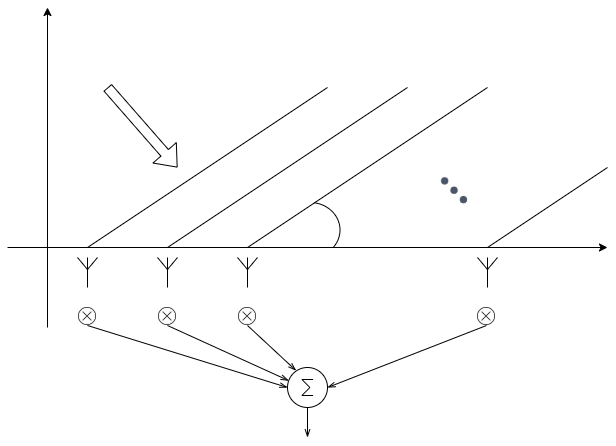
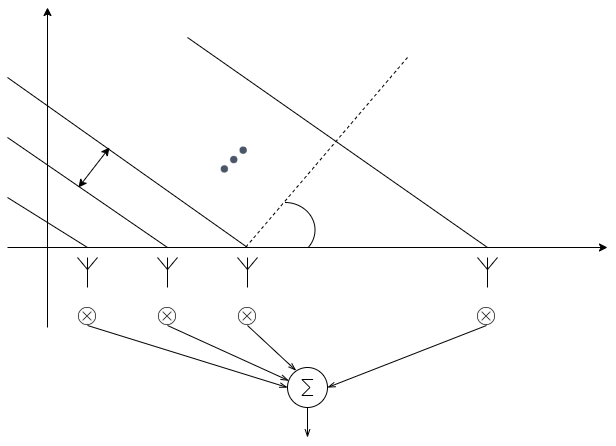
After Israel's comments

diff --git a/Modules/abstractHebrew.tex b/Modules/abstractHebrew.tex
@@ -1,74 +1,51 @@
-שיערוך מאפיינים מתוך מדידות הינו מושא לעניין רב עוד מראשית ימי המדע, כשחוקי הפיזיקה נלמדו בעזרת תצפיות ומדידות.
+שיערוך מאפייני אותות הינו מושא לעניין רב עוד מראשית ימי המדע, כשחוקי הפיזיקה נלמדו בעזרת תצפיות ומדידות.
 עם התקדמות המדע, רמת הדיוק הנדרשת בשיערוך עלתה ובכדי לעקוף את הגבולות התיאורטיים (פורייה למשל), עלה הרעיון לעיבוד מקבילי של מידע ממספר רגשים.
 אחד התחומים בהם עלה משמעותית הצורך בדיוק השיערוך, היה העיבוד המרחבי - קרי שיערוך פרמטרים מרחביים מתוך מדידות. 
 עדויות לכך ניתן למצוא עוד בתקופת מלחמת העולם השניה בדמות רדאר ה
 \textenglish{Mammut}
 שנבנה על ידי הגרמנים לזיהוי מוקדם של מטרות טסות בגבהים עד 8 ק"מ ומרחקים של עד 300 ק"מ.
 \par
-מאז ועד ימינו, עיבוד מערכי רגשים
+מאז ועד ימינו, עיבוד מערכי חיישנים
 \textenglish{(sensors arrays)}
-התפתח לכדי תחום מחקר הנותן מענה למגוון רחב של בעיות, ביניהן איכון (מערכות רדאר, סונאר ונגזרותיהן) מטרות על סמך אותות שנפלטים או מוחזרים מהן - הנחשבת לותיקה ביותר בתחום.
+התפתח לכדי תחום מחקר הנותן מענה למגוון רחב של בעיות, ביניהן איכון (מערכות רדאר, סונאר ונגזרותיהן) מטרות על סמך אותות שנפלטים או מוחזרים מהן.
 עם השנים והתקדמות המדע, נעשה שימוש במערכים לפתרון בעיות נוספות.
 \par
-במערכות תקשורת, הצורך בסינון מרחבי הוא מן המעלה הראשונה, שכן במציאות מרובת המשדרים והמקלטים, במידה ולא היה שימוש במערכים, הפרעות הדדיות היו מונעות את פענוח האות הנקלט. במקביל, לא רק סינון אלא גם הכוונת אלומת השידור הפכה לאפשרית בזכות השימוש במערכי מופע
+במערכות תקשורת לדוגמא, הצורך בסינון מרחבי הוא מן המעלה הראשונה לאור המציאות מרובת המשדרים והמקלטים. במקביל, לא רק סינון אלא גם הכוונת אלומת השידור התאפשרה בזכות השימוש במערכי מופע
 \textenglish{(phased array)}
 ובכך הושגו גם חסכון באנרגית שידור, מניעת הגעת המידע ליעדים בלתי רצויים, חסינות לרעשים ועוד.
 \par
-מוקד עניין נוסף, הינו האפליקציות הרפואיות שהתאפשרו בזכות השימוש במערכים. 
+מוקד עניין נוסף, הינו האפליקציות הרפואיות. 
 בדימות רפואית למשל, כדוגמת 
 \textenglish{CT, MRI, EEG}
-וכו', רופאים מייצרים באופן בלתי פולשני מודלים של פנים גוף האדם המשמשים לפענוח מצבים רפואיים ותכנון מדויק של הליכים - ובכך מונעים סיכון רב מהמטופלים.
+וכו', רופאים מייצרים מודלים של פנים גוף האדם באופן בלתי פולשני.
+מודלים אלו משמשים לפענוח מצבים רפואיים ותכנון מדויק של הליכים - ובכך מונעים סיכון רב מהמטופלים.
 \par
-בעשורים האחרונים, עם הגחת הטלפונים הניידים לעולם, עלה הצורך בסינון אותות דיבור מתוך בליל מקורות אקוסטיים, שכן הדובר כבר אינו נמצא בין כותלי ביתו בשקט יחסי.
+בעשורים האחרונים, עם הגחת הטלפונים הניידים לעולם, עלה הצורך בסינון אותות דיבור טבולים ברעש, שכן הדובר כבר אינו נמצא בין כותלי ביתו בשקט יחסי.
 לשם כך, המכשירים הניידים מצוידים במערכי מיקרופונים אשר מסננים את אות הדובר על פי כיוון הגעתו ומאפייניו הסטטיסטיים.
 \par
-דוגמא מעניינת נוספת בתחום האסטרונומיה, שם נוכחו המדענים כי תצפיות אופטיות מוגבלות ביכולתן ובכמות המידע שניתן להפיק מהן, היא השימוש במערכי אנטנות, הנפרשים על פני שטחים עצומים בכדי לממש טלסקופים רבי עוצמה ודיוק, העושים שימוש באותות אלקטרומגנטיים באורכי גל שלא בתחום הנראה.
+דוגמא מעניינת נוספת בתחום האסטרונומיה, הינה מערכי אנטנות רדיו הנפרשים על פני שטחים עצומים בכדי לממש טלסקופים רבי עוצמה ודיוק. 
 \par
 ככלל, בין תחומי מחקר אלו, מתקיימת תרומה הדדית רחבת היקף ורב המסקנות העולות מכל תחום בנפרד משמשות בסיס למחקר ופיתוח בתחומים אחרים ולהפך. 
-בנוסף, בבסיס כל מגוון תחומי המחקר, ישנו שימוש בתחום מחקר ותיק ועשיר עוד יותר - הוא השימוש במסננים בכדי להפיק את המידע הרצוי (אות או מאפיין) מהאות הנקלט.  
+בנוסף, בבסיס כל מגוון תחומי המחקר, ישנו שימוש במסננים בכדי להפיק את המידע הרצוי (אות או מאפיין) מהאות הנקלט.  
 \par
 בבסיס תורת הסינון, שתי אבני בניין מרכזיות - קרי שני סוגי מסננים.
 האחד, מסנן בעל תגובה להלם סופית 
 \textenglish{FIR}
-הינו מישקול וסכימת סט דגימות לכדי מוצא "מסונן".
-השני לעומת זאת, משתמש בהיזון חוזר, ובכך מייצר תגובה אינסופית להלם - ועל כך שמו
+שהינו מישקול וסכימת סט דגימות לכדי מוצא "מסונן".
+השני לעומת זאת, משלב היזון חוזר, ובכך מייצר תגובה אינסופית להלם 
 \textenglish{IIR}
-.
-לשם תכן מסננים מסופק מפרט התגובה בתדר, בו מפורטים התדרים שאמורים לעבור, אלו שאמורים לחוות דיכוי ומידת הדיכוי הרצויה.
-על פי מפרט זה, המתכנן בוחר את סוג המסנן ואת המשקלות שבו.
-בעוד המסנן בעל התגובה הסופית להלם מאפשר הימנעות מעיוותים באות (תכונת הפאזה הלינארית - קרי ללא דיספרסיה), המסנן בעל התגובה האינסופית מאפשר חיסכון משמעותי (לעיתים בסדרי גודל) במשאבים לשם עמידה במפרט דומה.
-איך לכך, בהתאם לאפליקציה ולמפרט, על המתכנן לבחור במסנן המתאים ביותר תוך הבאה בחשבון של כלל השיקולים - משאבים, עלות וכו'.
+וידוע כי הוא מאפשר חיסכון משמעותי (לעיתים בסדרי גודל) במשאבים.
 \par
-עד כה, למיטב ידיעתנו, בכל תחומי המחקר המערבים עיבוד מרובה רגשים אבן הבניין היחידה שבשימוש הינה המסנן בעל התגובה הסופית בתדר, שכן בין אם מעורב שידור במערכת (כמו במכם, תקשורת, דימות רפואית וכו') ובין אם לאו, אין היזון חוזר של האות הנקלט חזרה אל מושא המדידה.
-עובדה זו עוררה את תהייתנו ובעטייה חיפשנו את המקביל המרחבי למסנן בעל התגובה האינסופית - בכדי ליהנות מהיתרונות שבו.
-במהלך המחקר המקדים, נוכחנו לדעת כי שאלה זו התעוררה גם במוחם של חוקרים אחרים, אך לאחר בחינת פרסומיהם נוכחנו כי פתרונם אינו מממש בצורה מלאה את רעיון ההיזון החוזר אלא מנסה למצוא דרכים עקיפות - בכך חושף עצמו לשגיאות ועיוותים משמעותיים.
+עד כה, למיטב ידיעתנו, בכל תחומי המחקר המערבים עיבוד מערכי חיישנים אבן הבניין היחידה שבשימוש הינה המסנן בעל התגובה הסופית בתדר, שכן בין אם מעורב שידור במערכת (כמו במכם, תקשורת, דימות רפואית וכו') ובין אם לאו, אין היזון חוזר של האות הנקלט חזרה אל מושא המדידה.
+עובדה זו עוררה את תהייתנו ובעטייה חיפשנו את המקביל המרחבי למסנן בעל התגובה האינסופית.
+במהלך המחקר המקדים, נוכחנו לדעת כי שאלה זו התעוררה גם במוחם של חוקרים אחרים, אך הפתרונות שהציעו אינם מממשים רעיון ההיזון.
 \par
-למשל, בעבודתו של WEN
-\cite{wen2013extending}
-עלתה הצעה לשערך את השהיית האות בין רגשים שכנים, וע"י כך לייצר היזון חוזר בצורה מלאכותית.
-גישה זו חשופה לשגיאות מדידה וחוטאת למטרת העיבוד המרחבי הטהור - שכן היא מערבת עיבוד זמני.
-הצעה נוספת בעבודה הנ"ל 
-\cite{wen2013extending}
-היתה להתייחס לתת מערכים (מתוך מערך אחד) חופפים כאל הסחות זמניות של מערך אחד קטן יותר ובכך לייצר קירוב סופי לתגובת ההלם האינסופית.
-הצעה זו אינה אלא פרשנות שונה לעיבוד מבוסס 
-\textenglish{FIR}
-שכן בסופו של תהליך העיבוד הינו לינארי ומכיל מספר סופי של דגמים במערכת בכל זמן נתון.
-שיטה מעניינת
-\cite{Hum2009BeamformingFilters,madanayake2008speed}
-, המהווה בסיס למחקר ענף, מטילה את הדגימה המרחבית והדגימה הזמנית אל מישור התדר, בו גל מישורי מיוצג על ידי קו ישר המוטה לפי זוית ההגעה של הגל הפוגע.
-בהמשך לכך, מסננים במרחב התדר הדו מימדי מתוכננים על מנת להגביר אותות שמגיעים מכיוונים רצויים.
-גישה זו בשימוש רחב בתחום החקר הסיסמי וסובלת בעיקר מחוסר היכולת לתכנן מסננים מדויקים היות והמסננים מחזוריים בתדר, עובדה הגורמת לעיוותים בקצוות מרחב התדר.
-עוד על כן, גם שיטה זו אינה סינון מרחבי טהור ולכן אינה מהווה פתרון לשאלת המחקר אותה ניסינו לפתור.
-\par
-מוצעת איפוא, מערכת מבוססת מערך לינארי בעל מרווחים אחידים בין הרגשים
-\textenglish{ULA}
-כאשר בראשיתו, בנוסף על הרגש, ישנו משדר.
+בעבודה זו אנו מציעים פתרון המשלב, בנוסף על חיישני הקליטה, משדר לשם יצירת ההיזון החוזר.
 על פניו, מערכת דומה למכ"ם, הפולט אות ומשערך את מיקומי מטרות על פי האות החוזר.
-החידוש בהצעה נעוץ בכך שהאות המשודר אינו רק עותק יחיד הנוצר ע"י המערכת אלא משולב בו האות המסונן הנקלט ע"י המערך, בכך נוצר היזון חוזר בין המערך והמטרה.
+החידוש בהצעה נעוץ בכך שהאות המשודר אינו רק עותק יחיד הנוצר ע"י המערכת אלא משולבים בו הדי האותות שהוחזרו מן המטרה.
 ניתוח המערכת מרמז כי ע"י שליטה במשקלות המסנן המייצר את האות החוזר, ניתן להפיק את היתרונות הרבים הטמונים במסנן בעל התגובה האינסופית.
 \par
-מחקירת המערכת המתקבלת, מצאנו שיפור משמעותי במגוון מאפיינים כגון רוחב אונה, הנחתת אונות צד ודיכוי רעשים איזוטרופים יעיל - הוה אומר כיווניות גבוהה.
+מחקירת המערכת המתקבלת, מצאנו שיפור משמעותי במגוון מאפיינים כגון רוחב אונה, הנחתת אונות צד ודיכוי רעשים איזוטרופים יעיל - כלומר מערך בעל כיווניות גבוהה.
 לאחר מכן, הדמיות ובחינה דקדקנית של המערכת מגלים כי המערכת בעלת רגישות גבוהה למדי לשגיאת טווח - אבן נגף משמעותית בנסיון למציאת הפתרון.
 עם זאת, לשמחתנו, נמצא גם פתרון פשוט וזול יחסית לבעיה, המגדיל סך הכל את המאמץ החישובי ולא את המערך עצמו.
 הדמיות וניתוח נוספים מאשררים כי הפתרון קביל ומשיג תוצאות שבתרחישים אידיאלים נוטות לכדי שלמות.
-בנוסף על האיכון הזוויתי שחווה שיפור משמעותי בביצועיו, כתופעת לוואי, מתכנן המערך יכול גם לקבוע גבולות מרחק לסינון ובכך לייצר מערכת איכון שמזהה לא רק כיוון אלא מיקום מדויק של מטרות.

diff --git a/Modules/sec_prlm_localization.tex b/Modules/sec_prlm_localization.tex
@@ -1,24 +1,30 @@
 In the wide and very active research field of parametric estimation, one subject of very high relevance to this thesis is the sensor-array based localization - i.e. positional parameters estimation of impinging signal which is measured by an array of sensors.
+\par 
 In this work, we focus on localization of signal sources in the far-field case, where free space signal propagation is assumed.
 Following the classical methods overview in \cite{krim1996two}, localization estimators may be divided to two main groups - i.e. \textit{spectral-based} and \textit{parametric}.
 The spectral based estimators steer the array (mechanically or by beamforming) to a set of DOAs, searching for peaks in the received energy, where each peak is treated as a resolved emitter when greater than a certain threshold.
 This approach of spatial filtering, is considered to suffer from fundamental
 limitations, namely ``its performance, is directly dependent upon the physical size of the array (the aperture), regardless of the available data collection time and signal-to-noise ratio (SNR)`` \cite{krim1996two}.
 Although trials were made to increase the resolution of an array given a certain aperture, this limitation remained intact.
-In this contribution we tackle this issue as will shown in Chapter\ref{chap:firstchap} by introducing a spatial feedback.
+In this contribution we tackle this issue as will shown in Chapter.~\ref{chap:firstchap} by introducing a spatial feedback.
+\par
 The later approach, of parameter estimation assumes a physical model of the experimental scenario, which serve a basis for the development of spatio-temporal estimators which take advantage not only from the spatial diversity but also from the temporal information collected via sequential time separated snapshots in order to increase the overall SNR.
 Such methods, not only enabled the increase of spatial filtering resolution, but also allowed the implementation of data processing algorithms, which are more sophisticated than a mere search with a steered array.
 In the following, a basic overview of some classical algorithms are presented.
+\par
 The earliest localization algorithms, which date back to world war II, are beamforming based, e.g. the conventional Bartlet \cite{van2004optimum} and Capon's \cite{capon1969high} beamformers.
 Early examples of parametric estimators, are the Maximum-Likelihood \cite{macdonald1969optimum,schweppe1968sensor} and Maximum-Entropy \cite{ables1974maximum} which assume a known PDF to the received signal and estimate the desired parameters according to sampled data and fitting the closest matching PDF.
 Until the mid- 1970's, direction finding techniques required knowledge of the array directional sensitivity pattern in analytical form, and the task of the antenna designer was to build an array of antennas with a prespecified sensitivity pattern.
-Trying to relax the need for such accuracy, also serving as the origin of the sub-space based approach, was the Multiple SIgnal Classification (MUSIC) \cite{schmidt1986multiple} algorithm.
+\par
+Trying to relax the need for such accuracy, also serving as the origin of the subspace based approach, was the Multiple SIgnal Classification (MUSIC) \cite{schmidt1986multiple} algorithm.
 MUSIC essentially relieved the designer from designing accurate radiation patterns by introducing the concept of array calibration.
 Although MUSIC did not mitigate the computational complexity of solution to the DOA estimation problem, it did extend the applicability of high-resolution DOA estimation to arbitrary arrays of sensors.
-Another, probably even more important breakthrough, was the introduction of the orthogonal array manifold noise spaces, thus allowing the use of orthogonal projection in order to mitigate the noise effects.
+An important breakthrough, was the introduction of the orthogonal array manifold noise spaces, thus allowing the use of orthogonal projection in order to mitigate the noise effects.
+\par
 Another important parametric approach related algorithm, is the ESPRIT (Estimation of Signal Parameters via Rotational Invariance Techniques) \cite{ESPRIT}, serving as a milestone in the path to state-of-the-art algorithms.
-In addition to using the rotational invariance of the signal sub-space eigenvectors, it also reduced computation and storage costs (especially in the multi-dimensional estimation case) by replacing the covariance matrix calculation and eigendecomposition by a relaxed partial singular value decomposition (SVD) which is employed on the data itself without squaring it - thus mitigating numerical problems associated with ill-conditioned matrices.
-Following state-of-the-art developments \cite{tuncer2009classical}, the sub-space based algorithms are still modified and adjusted to specific scenarios as in \cite{LpNorm_MUSIC} but also new and interesting approaches emerged such as
+In addition to using the rotational invariance of the signal subspace eigenvectors, it also reduced computation and storage costs (especially in the multi-dimensional estimation case) by replacing the covariance matrix calculation and eigendecomposition by a relaxed partial singular value decomposition (SVD) which is employed on the data itself without squaring it - thus mitigating numerical problems associated with ill-conditioned matrices.
+\par
+Following state-of-the-art developments \cite{tuncer2009classical}, the subspace based algorithms are still modified and adjusted to specific scenarios as in \cite{LpNorm_MUSIC} but also new and interesting approaches emerged such as
 \begin{itemize}
     \item High Order Statistics (HOS), which extracts more information from the samples' higher order moments, is a very active field of research due to some fundamental issues which are inherently resolved - i.e. the Gaussian noise vanishes in the 4th order statistics and the ability to resolve more DOAs than array elements \cite{chevalier2006high}.
     This approach, being costly in computation effort, became popular probably due to the recently available low-cost powerful computation platforms.

diff --git a/Modules/sec_prlm_propWaveField.tex b/Modules/sec_prlm_propWaveField.tex
@@ -27,7 +27,7 @@ where $\nabla^{2}$ is the Laplacian operator and $c$ represents the wave's veloc
 A possible solution to \eqref{eq_prlm_waveEq}, $f_p\rBrace{t,x,y,z}$, is a complex exponential of the form:
 \begin{equation}
 \label{eq_prlm_waveEq_pSol}
-f_p\rBrace{t,x,y,z} = A\exp\rBrace{j\rBrace{\omega{t}-k_{x}x-k_{y}y-k_{z}z}}
+f_p\rBrace{t,x,y,z} = A\exp\vBrace{j\rBrace{\omega{t}-k_{x}x-k_{y}y-k_{z}z}}
 \end{equation}
 Where $A$ is a complex constant, $\omega$ denotes temporal radial frequency, $\vecnot{k} = \vBrace{k_{x},k_{y},k_{z}}^{T}$ denote the \emph{wavelength vector} and $k_{x},k_{y},k_{z}$ are real constants. 
 Indeed, plugging \eqref{eq_prlm_waveEq_pSol} into \eqref{eq_prlm_waveEq} results in the \emph{monochromatic plane wave} satisfying:
@@ -35,12 +35,12 @@ Indeed, plugging \eqref{eq_prlm_waveEq_pSol} into \eqref{eq_prlm_waveEq} results
 \label{eq_prlm_waveEq_subs}
 k_{x}^{2}+k_{y}^{2}+k_{z}^{2} = \frac{\omega^{2}}{c^{2}}.
 \end{equation}
-Using the plane wave notation 
+Using the plane wave notation
 \begin{equation}
 \label{eq_prlm_waveEq_finSol}
 f\rBrace{t,\vecnot{x}}=A\exp{j\rBrace{\omega{t}-\vecnot{k}^{T}\vecnot{x}}},
 \end{equation}
-emphasizes the fact that for a given time, $t_{0}$, all points on a plane given by $k_{x}x+k_{y}y+k_{z}z = constant$ are with the same wave value where $\vecnot{k}\vecnot{x}=constant$ are planes of constant wave value.
+where $ \vecnot{x} = \vBrace{x,y,z}^{T} $ emphasizes the fact that for a given time, $t_{0}$, all points on a plane given by $k_{x}x+k_{y}y+k_{z}z = constant$ are with the same phase value where $\vecnot{k}\vecnot{x}=constant$ are planes of constant phase value.
 The wave propagation can be described as the traveling of the planes, stating that small steps of both space $\delta{\vecnot{x}}$ and time $\delta{t}$ result in the same wave value i.e. $f\rBrace{t+\delta{t},\vecnot{x}+\delta{\vecnot{x}}} = f\rBrace{t,\vecnot{x}}$, which yields
 \begin{equation}
 \omega\delta{t}-\vecnot{k}^{T}\delta\vecnot{x}=0.
@@ -63,20 +63,19 @@ The spatial diversity of the ULA elements is expressed as a TOA difference of th
 \begin{figure}[h!]
     \begin{center}
         \begin{overpic}[width=0.6\linewidth, 
-        %grid, 
+        % grid, 
         tics=10,trim=0 0 0 0]{./Media/arraySketch.png}
-        \put(20,45){\rotatebox{-50}{\tiny{Impinging wavefront}}}
         \put(33.25,2.25){\rotatebox{0}{\tiny{$d$}}}
-        \put(52.25,26){\rotatebox{38}{\tiny{$c\tau=d\cos{\theta}$}}}
-        \put(49,15.75){\rotatebox{0}{$\theta$}}
+        \put(16,26){\rotatebox{-36}{\tiny{$c\tau=d\cos{\theta}$}}}
+        \put(45.5,15.75){\rotatebox{0}{$\theta$}}
         \put(15,7){\rotatebox{0}{\tiny{0}}}
         \put(28,7){\rotatebox{0}{\tiny{1}}}
         \put(41,7){\rotatebox{0}{\tiny{2}}}
         \put(80,7){\rotatebox{0}{\tiny{$N-1$}}}
-        \put(44,36){\rotatebox{38}{\tiny{$t=\rBrace{N-1}\tau$}}}
-        \put(57,36){\rotatebox{38}{\tiny{$t=\rBrace{N-2}\tau$}}}
-        \put(70,36){\rotatebox{38}{\tiny{$t=\rBrace{N-3}\tau$}}}
-        \put(92,25){\rotatebox{38}{\tiny{$t=0$}}}
+        \put(2,24){\rotatebox{-36}{\tiny{$t=0$}}}
+        \put(2,34){\rotatebox{-36}{\tiny{$t=\tau$}}}
+        \put(2,44){\rotatebox{-36}{\tiny{$t=2\tau$}}}
+        \put(40,44){\rotatebox{-36}{\tiny{$t=\rBrace{N-1}\tau$}}}
         \end{overpic}
     \end{center}
      \caption{An illustration of an $N$ element ULA, impinged with a plane wave arriving from a DOA of $\theta$.}

diff --git a/Modules/sec_prlm_FIR_IIR.tex b/Modules/sec_prlm_FIR_IIR.tex
@@ -12,13 +12,19 @@ This section will briefly overview the design methods and the analogy of ULA bas
     \begin{center}
         \begin{overpic}[width=0.7\linewidth, 
         %grid, 
-        tics=10,trim=0 0 0 0]{./Media/BASIC_FIR_FILTER_ARCH.png}
-            \put (13, 36){\footnotesize{$s$}}
-            \put (22, 22){\footnotesize{$\beta_{0}$}}
-            \put (38.75, 22){\footnotesize{$\beta_{1}$}}
-            \put (55.5, 22){\footnotesize{$\beta_{2}$}}
-            \put (80.75, 22){\footnotesize{$\beta_{N-1}$}}
-            \put (85, 10){\footnotesize{$z$}}
+        tics=10,trim=0 0 0 0]{./Media/FIR_arch.png}
+            \put (13, 38){$s$}
+            \put (26, 33.5){$Z^{-1}$}
+            \put (47, 33.5){$Z^{-1}$}
+            \put (68, 33.5){$Z^{-1}$}
+            \put (37.5, 3){$+$}
+            \put (59, 3){$+$}
+            \put (80, 3){$+$}
+            \put (20.5, 18){$\beta_{0}$}
+            \put (42, 18){$\beta_{1}$}
+            \put (63, 18){$\beta_{2}$}
+            \put (84, 18){$\beta_{N-1}$}
+            \put (90, 7){$z$}
         \end{overpic}
     \end{center}
     \caption{An FIR based filtering of signal $s$ with the $\vecnot{\beta}$ as the coefficients, generating a filtered signal $z$.}
@@ -27,17 +33,21 @@ This section will briefly overview the design methods and the analogy of ULA bas
 \begin{figure}[h!]
     \begin{center}
         \begin{overpic}[width=0.7\linewidth, 
-        % grid, 
-        tics=10,trim=0 0 0 0]{./Media/BASIC_IIR_FILTER_ARCH.png}
-            \put (60, 50){\footnotesize{$\beta_{0}$}}
-            \put (60, 30){\footnotesize{$\beta_{1}$}}
-            \put (60, 10){\footnotesize{$\beta_{2}$}}
-            \put (36, 30){\footnotesize{$\alpha_{1}$}}
-            \put (36, 10){\footnotesize{$\alpha_{2}$}}
-            \put (10, 50){\footnotesize{$s$}}
-            \put (85, 50){\footnotesize{$z$}}
-            \put (47.5, 34.5){\footnotesize{$z^{-1}$}}
-            \put (47.5, 14.5){\footnotesize{$z^{-1}$}}
+        %grid, 
+        tics=10,trim=0 0 0 0]{./Media/IIR_arch.png}
+            \put (60, 55){$\beta_{0}$}
+            \put (60, 30){$\beta_{1}$}
+            \put (60, 6){$\beta_{2}$}
+            \put (39, 30){$\alpha_{1}$}
+            \put (39, 6){$\alpha_{2}$}
+            \put (10, 54){$s$}
+            \put (90, 54){$z$}
+            \put (48.5, 37.5){$z^{-1}$}
+            \put (48.5, 13){$z^{-1}$}
+            \put (21, 25){+}
+            \put (21, 50){+}
+            \put (78, 25){+}
+            \put (78, 50){+}
         \end{overpic}
     \end{center}
     \caption{Direct form II $2^{nd}$ order IIR architecture, where the FIR part is the $\vecnot{\beta}$ coefficients and the recursive part is implemented via the $\vecnot{\alpha}$ set.}

diff --git a/Modules/Spatial_IIR-MathDerivations.tex b/Modules/Spatial_IIR-MathDerivations.tex
@@ -6,7 +6,7 @@ Time domain analysis of the proposed feedback based architecture, considering bo
     \label{eqn:SingleSensorTemporalEquality}
     % \resizebox{.91\linewidth}{!}{
         \begin{split}
-            x_{n}(t) = g\rBrace{s\rBrace{t-\tau_{pd}-\tau_{n}}
+            x_{n}(t) = g\vBrace{s\rBrace{t-\tau_{pd}-\tau_{n}}
             +\sum_{m=0}^{N-1}{\alpha^{*}_{m}x_{m}\rBrace{t-\tau_{pd}-\tau_{n}}}},
         \end{split}
     % }
@@ -17,12 +17,12 @@ Expressing the Fourier transform of \eqref{eqn:SingleSensorTemporalEquality},
     \label{eqn_singleSensorFourier}
     % \resizebox{.91\linewidth}{!}{
             X_{n} =
-            g\rBrace{\F{s}
-            \exp\rBrace{-j\omega\rBrace{\tau_{pd}+\tau_{n}}}
+            g\cBrace{\F{s}
+            \exp\vBrace{-j\omega\rBrace{\tau_{pd}+\tau_{n}}}
             +\sum_{m=0}^{N-1}
             {
             \alpha^{*}_{m}\F{x}_{m}
-            \exp\rBrace{-j\omega\rBrace{\tau_{pd}+\tau_{n}}}
+            \exp\vBrace{-j\omega\rBrace{\tau_{pd}+\tau_{n}}}
             }},
     % }
 \end{equation}
@@ -50,10 +50,10 @@ Setting $\vecnot{u}=-g\vecnot{d}\exp{\rBrace{-j\omega\tau}}$ and $\vecnot{v}=\ve
         \rBrace{I-g\vecnot{d}\vecnot{\alpha}^{H}\exp{\rBrace{-j\omega\tau}}}^{-1} 
         &= I+\frac{g\vecnot{d}\vecnot{\alpha}^{H}\exp{\rBrace{-j\omega\tau}}}{1-g\vecnot{\alpha}^{H}\vecnot{d}\exp{\rBrace{-j\omega\tau}}}
         \\
-        &= \frac{\rBrace{I-g\vecnot{\alpha}^{H}\vecnot{d}\exp{\rBrace{-j\omega\tau}}+g\vecnot{d}\vecnot{\alpha}^{H}\exp{\rBrace{-j\omega\tau}}}\vecnot{d}}{1-g\vecnot{\alpha}^{H}\vecnot{d}\exp{\rBrace{-j\omega\tau}}}
+        &= \frac{\rBrace{I-g\vecnot{\alpha}^{H}\vecnot{d}\exp{\vBrace{-j\omega\tau}}+g\vecnot{d}\vecnot{\alpha}^{H}\exp{\vBrace{-j\omega\tau}}}\vecnot{d}}{1-g\vecnot{\alpha}^{H}\vecnot{d}\exp{\rBrace{-j\omega\tau}}}
         \\
         &= \frac{
-        \rBrace{I+\rBrace{\vecnot{d}\vecnot{\alpha}^{H}-\vecnot{\alpha}^{H}\vecnot{d}}g\exp{\rBrace{-j\omega\tau}}}\vecnot{d}
+        \vBrace{I+\rBrace{\vecnot{d}\vecnot{\alpha}^{H}-\vecnot{\alpha}^{H}\vecnot{d}}g\exp{\rBrace{-j\omega\tau}}}\vecnot{d}
         }{
         1-g\vecnot{\alpha}^{H}\vecnot{d}\exp{\rBrace{-j\omega\tau}}
         }

diff --git a/Modules/sec_prlm_array_perf.tex b/Modules/sec_prlm_array_perf.tex
@@ -40,9 +40,9 @@ Considering DOA estimators, the main tool for assessing an array's localization 
 \end{figure}
 Although for sensors in 3D space the DOA may depend on two angles (azimuth and elevation), for the sake of simplicity, we consider a planar (i.e. azimuth without elevation) DOA-only dependant array response (i.e. the \emph{beampattern})
 \begin{equation}
-B\rBrace{\theta} = 20\log_{10}\abs{Z\rBrace{\theta}}.
+B\rBrace{\theta} = \abs{Z\rBrace{\theta}}.
 \end{equation}
-The beampttern is commonly presented in a graphical manner as exemplified in Fig.~\ref{fig_common_bps}.
+The beampttern is commonly presented in a graphical manner with log scale as exemplified in Fig.~\ref{fig_common_bps}.
 It's characteristics, such as main lobe width, position and attenuation of sidelobes are then analysed and compared between different schemes.
 The analysis can be done theoretically, when the beampattern's mathematical expression is known or it can be conducted numerically for empirical scenarios.
 % In this work, as we deal with 2D planar localization problems, we find the presentation of Fig.~\ref{fig_common_bps1} most suitable.
@@ -95,11 +95,11 @@ We define the power pattern, $P\rBrace{\theta_{d}}$, to be the squared magnitude
 where the frequency dependence is suppressed.
 Then the directivity $\mathcal{D}$ is defined as
 \begin{equation}\label{eq_D}
-    \mathcal{D}\rBrace{\theta_{T}} = \frac{
-    P\rBrace{\theta_{T}}
+    \mathcal{D}\rBrace{\theta_{d}} = \frac{
+    P\rBrace{\theta_{d}}
     }{
     \frac{1}{2\pi}\int_{0}^{2\pi}P\rBrace{\theta}d\theta
-    }
+    }.
 \end{equation}
-In the following, as we consider steered (to $\theta_{s}$) arrays, we suppress the DOA dependency such that $\mathcal{D} = \mathcal{D}\rBrace{{\theta_{s}}}$. 
-For uniformly weighted ULAs with no feedback, it is known \cite{van2004optimum} that $\mathcal{D} = N$.
+% In the following, as we consider steered (to $\theta_{s}$) arrays, we suppress the DOA dependency such that $\mathcal{D} = \mathcal{D}\rBrace{{\theta_{s}}}$. 
+and for uniformly weighted ULAs with no feedback, it is known \cite{van2004optimum} that $\mathcal{D} = N$.

diff --git a/Modules/sec_prlm_timeSpaceSig.tex b/Modules/sec_prlm_timeSpaceSig.tex
@@ -5,8 +5,7 @@ A basic application of the sensor array is the beamformer, designed to enhance s
         \begin{overpic}[width=0.6\linewidth, 
         %grid, 
         tics=10,trim=0 0 0 0]{./Media/arrayProc.png}
-        \put(20,65){\rotatebox{-50}{\tiny{Impinging wavefront}}}
-        \put(49,33.25){\rotatebox{0}{$\theta$}}
+        \put(45,33.25){\rotatebox{0}{$\theta$}}
         \put(15,25){\rotatebox{0}{\tiny{0}}}
         \put(28,25){\rotatebox{0}{\tiny{1}}}
         \put(41,25){\rotatebox{0}{\tiny{2}}}
@@ -36,11 +35,11 @@ Consider $s\rBrace{t} = e^{j\omega{t}}$ as a plane wave propagating at temporal 
 The wave signal, spatially sampled by the sensor array inputs is
 \begin{equation}
 \label{eq_prlm_timeSpace_outputVec}
-\vecnot{f}\rBrace{t,x} = \vBrace{s\rBrace{t},s\rBrace{t-\tau}\dots, s\rBrace{t-\rBrace{N-1}\tau}}^{T},
+\vecnot{f}\rBrace{t,\vecnot{p}} = \vBrace{s\rBrace{t},s\rBrace{t-\tau}\dots, s\rBrace{t-\rBrace{N-1}\tau}}^{T},
 \end{equation}
 where $\tau = \frac{d\cdot{}\cos{\theta}}{c}$ is the propagation delay between consecutive sensors and $c$ is the wave's velocity in the medium.
 Considering narrowband signals, the time delay $\tau$ translates to a mere phase shift and the \emph{steering vector} takes the form of
 \begin{equation}
 \vecnot{d}\rBrace{\theta}=\vBrace{1,e^{-j\omega\tau},\dots,e^{-j\omega\tau\rBrace{N-1}}}^{T}.
 \end{equation}
-As every impinging signal will cause the excitation of the array elements in the form of a specific steering vector (up to a common additive phase), we define the \emph{array manifold} to be the set of all steering vectors of $\theta\in\left[0,2\pi\right)$, hence it also spans the received signal sub space in the noiseless scenario.
+As every impinging signal will cause the excitation of the array elements in the form of a specific steering vector (up to a common additive phase), we define the \emph{array manifold} to be the set of all steering vectors of $\theta\in\left[0,2\pi\right)$, hence it also spans the received signal subspace in the noiseless scenario.

diff --git a/main/intro.tex b/main/intro.tex
@@ -8,7 +8,7 @@ The array size and the number of its elements ($N$) has significant influence on
 \par Early algorithms for direction of arrival (DOA) estimation were based on the beamforming concept \cite{krim1996two}, where the array's reception beam is steered (mechanically or electronically) to multiple directions in search of received energy peaks which are interpreted as valid emitters.
 One notable improvement to the convectional beamformer \cite{van2004optimum} was Capon's beamformer  (aka minimum variance distortionless response (MVDR) in acoustics related literature) which attempts to minimize the power contributed by noise and any signals coming from other directions than the DOA of interest, while maintaining a fixed gain
 in the desired direction.
-\par The most practically used approach in DOA estimators, referred as the sub-space based estimation, involves invariant sub-spaces analysis of observed covariance matrices.
+\par The most practically used approach in DOA estimators, referred as the subspace based estimation, involves invariant subspace analysis of observed covariance matrices.
 Early research include PCA and errors-in-variables time series analysis \cite{krim1996two}.   
 However, the tremendous interest in the subspace approach is mainly due to the introduction of the
 MUSIC (Multiple SIgnal Classification) algorithm \cite{schmidt1986multiple} which decomposes the estimated covariance matrix to its signal and noise eigenvectors, using orthogonal projection exploiting the fact that the noise sub space is orthogonal to the signal subspace.

diff --git a/Modules/paper_sec_prlms.tex b/Modules/paper_sec_prlms.tex
@@ -75,7 +75,7 @@ Applying the \emph{normalized beampattern} concept of Sec.~\ref{sec:prlm_array_p
         r/\rBrace{1-r}
         }\\
         &=
-        \frac{\rBrace{1-r}\D{\dTheta/2}{N}}{\exp\rBrace{j\rBrace{\dPhi+(N-1)\dTheta/2}}-r\D{\dTheta/2}{N}}.
+        \frac{\rBrace{1-r}\D{\dTheta/2}{N}}{\exp\cBrace{j\vBrace{\dPhi+\rBrace{N-1}\dTheta/2}}-r\D{\dTheta/2}{N}}.
     \end{split}
 \end{equation}
 Note that the known \cite{van2004optimum} normalized response of standard ULA is obtained by setting $r=0$ and $\Delta\phi=0$
@@ -86,7 +86,7 @@ $$
 Considering the steering error scenario (i.e., $\dTheta\neq0,\ \dPhi=0$) first, where 
 \begin{equation}\label{eq_Hdphi0}
 \Hr_{\Delta\theta,\Delta\phi=0,r}=
-             \frac{\rBrace{1-r}\D{\dTheta/2}{N}}{\exp\rBrace{j\rBrace{(N-1)\dTheta/2}}-r\D{\dTheta/2}{N}},
+             \frac{\rBrace{1-r}\D{\dTheta/2}{N}}{\exp\cBrace{j\vBrace{\rBrace{N-1}\dTheta/2}}-r\D{\dTheta/2}{N}},
 \end{equation}
 we evaluate the FB's beamwidth, sidelobe level and directivity and compare them to those of the standard ULA.
 \subsection{Half power beamwidth}

diff --git a/misc/thesis-fields.tex b/misc/thesis-fields.tex
@@ -7,9 +7,9 @@
 %\disciplineEnglish{Computer Science}
 %\disciplineHebrew{מדעי המחשב}
 
-\supervisionEnglish{This research was carried out under the supervision of Prof.~Israel Cohen, in the Faculty of Electrical engineering and Dr. Tsvi G. Dvorkind from RAFAEL.}
+\supervisionEnglish{This research was carried out under the supervision of Prof.~Israel Cohen, in the Faculty of Electrical and Computer Engineering and Dr. Tsvi G. Dvorkind from RAFAEL.}
 \supervisionHebrew{
-המחקר בוצע בהנחייתם של פרופ' ישראל כהן בפקולטה להנדסת חשמל
+המחקר בוצע בהנחייתם של פרופ' ישראל כהן בפקולטה להנדסת חשמל ומחשבים
 ודר' צבי דבורקינד מחברת רפאל.
 }
 

diff --git a/Modules/sec_future_multiTarget.tex b/Modules/sec_future_multiTarget.tex
@@ -1,7 +1,7 @@
 Considering practical scenarios of multiple ($P$) targets, positioned in $p_{t_,i}\ \forall i\in0\dots{}P-1$, the obvious expansion of \eqref{eqn:SingleSensorTemporalEquality} is 
 \begin{equation}
     \label{eqn:ftr_dyn_temp}
-    x_{n}(t) = \sum_{i=0}^{i=P-1}{\rBrace{g\rBrace{s\rBrace{t-\tau_{pd,i}-\tau_{n,i}}
+    x_{n}(t) = \sum_{i=0}^{i=P-1}{\vBrace{g\rBrace{s\rBrace{t-\tau_{pd,i}-\tau_{n,i}}
     +\sum_{m=0}^{N-1}{\alpha^{*}_{m}x_{m}\rBrace{t-\tau_{pd,i}-\tau_{n,i}}}}}},
 \end{equation}
 where $\tau_{pd,i}$ is the delay of the signal which reflected from $p_{t,i}$.

diff --git a/Modules/sec_stability.tex b/Modules/sec_stability.tex
@@ -153,7 +153,7 @@ Now, \eqref{eqn:GeneralFeedbackTransferFunction} takes the form of
 \begin{equation}\label{eq:alpha_beta_hat}
     \begin{split}
         H_{\vecnot{\beta}_{\text{CB,opt}},\vecnot{\alpha}_{\text{CB,opt}}}
-        = &\frac{r\D{\dTheta/2}{N}\exp\rBrace{-j\rBrace{\dPhi+(N-1)\dTheta/2}}}{1-r\D{\dTheta/2}{N}\exp\rBrace{-j\rBrace{\dPhi+(N-1)\dTheta/2}}}.
+        = &\frac{r\D{\dTheta/2}{N}\exp\cBrace{-j\vBrace{\dPhi+\rBrace{N-1}\dTheta/2}}}{1-r\D{\dTheta/2}{N}\exp\cBrace{-j\vBrace{\dPhi+\rBrace{N-1}\dTheta/2}}}.
     \end{split}
 \end{equation}
 \begin{figure}[t!]
